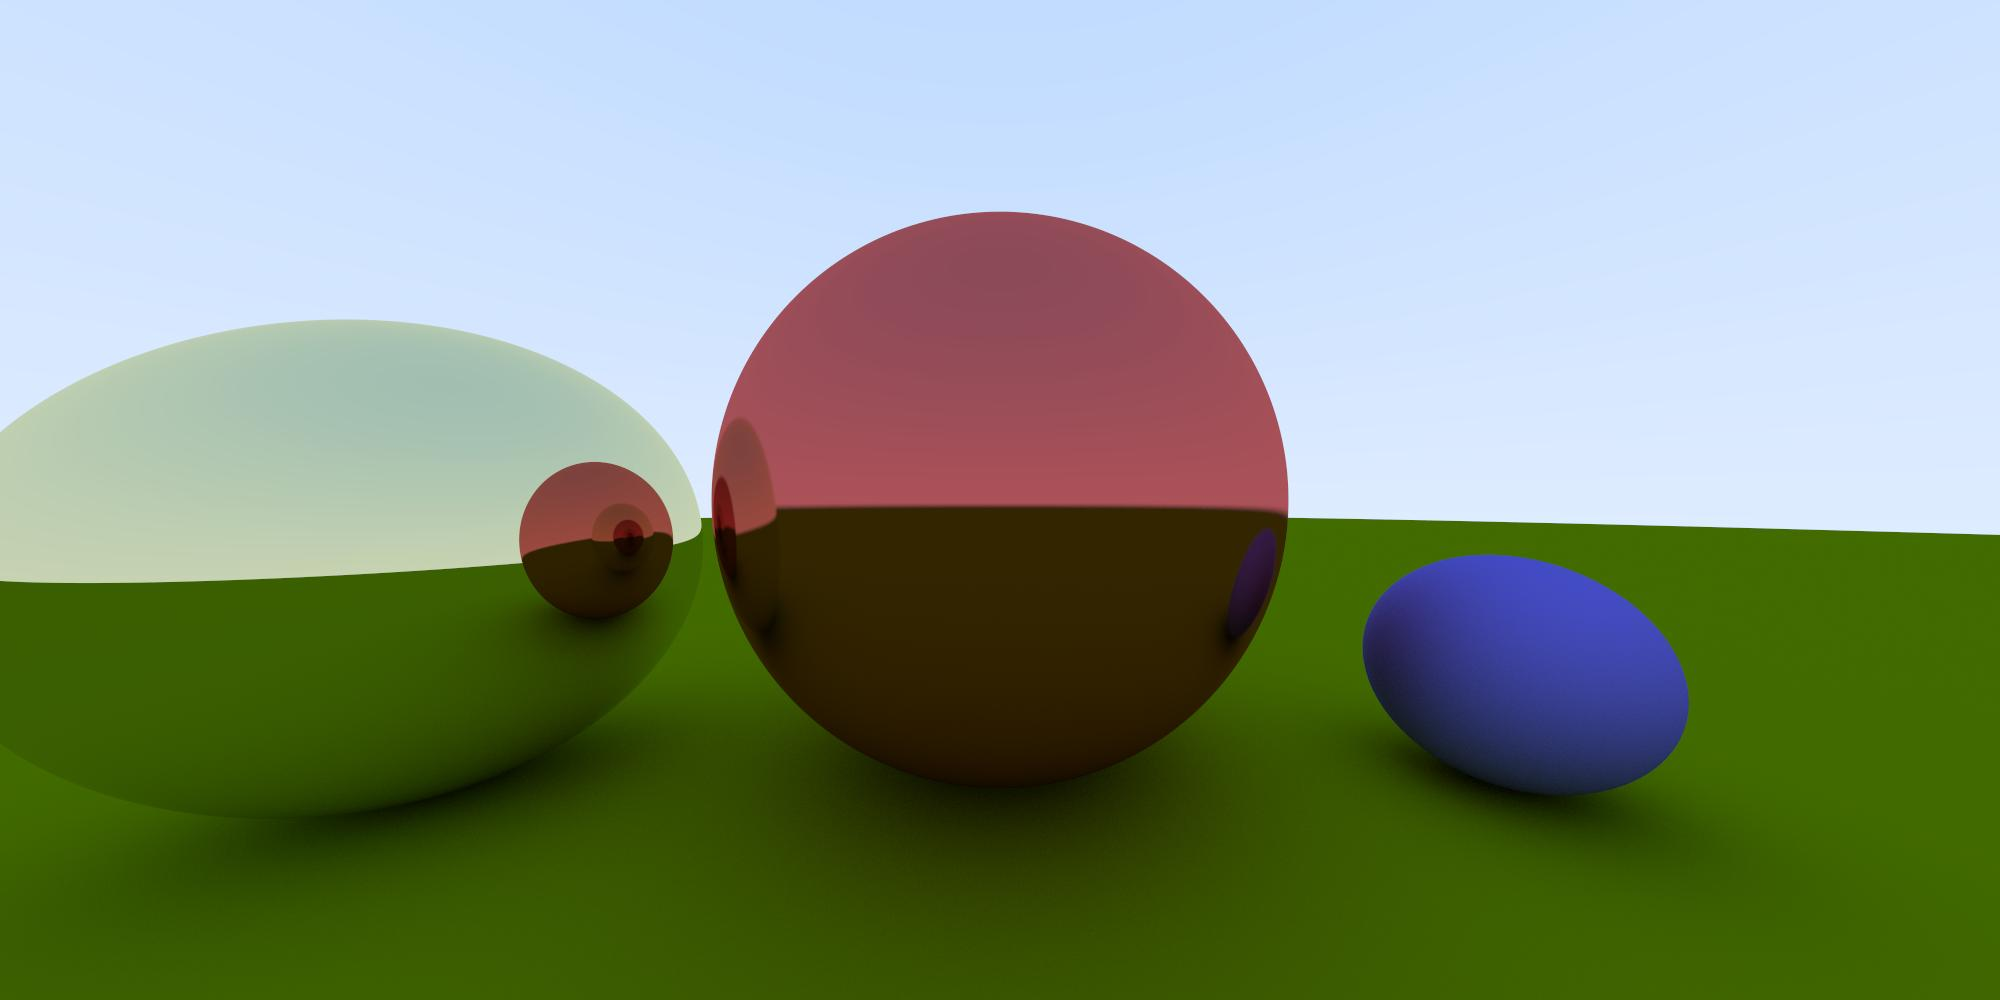
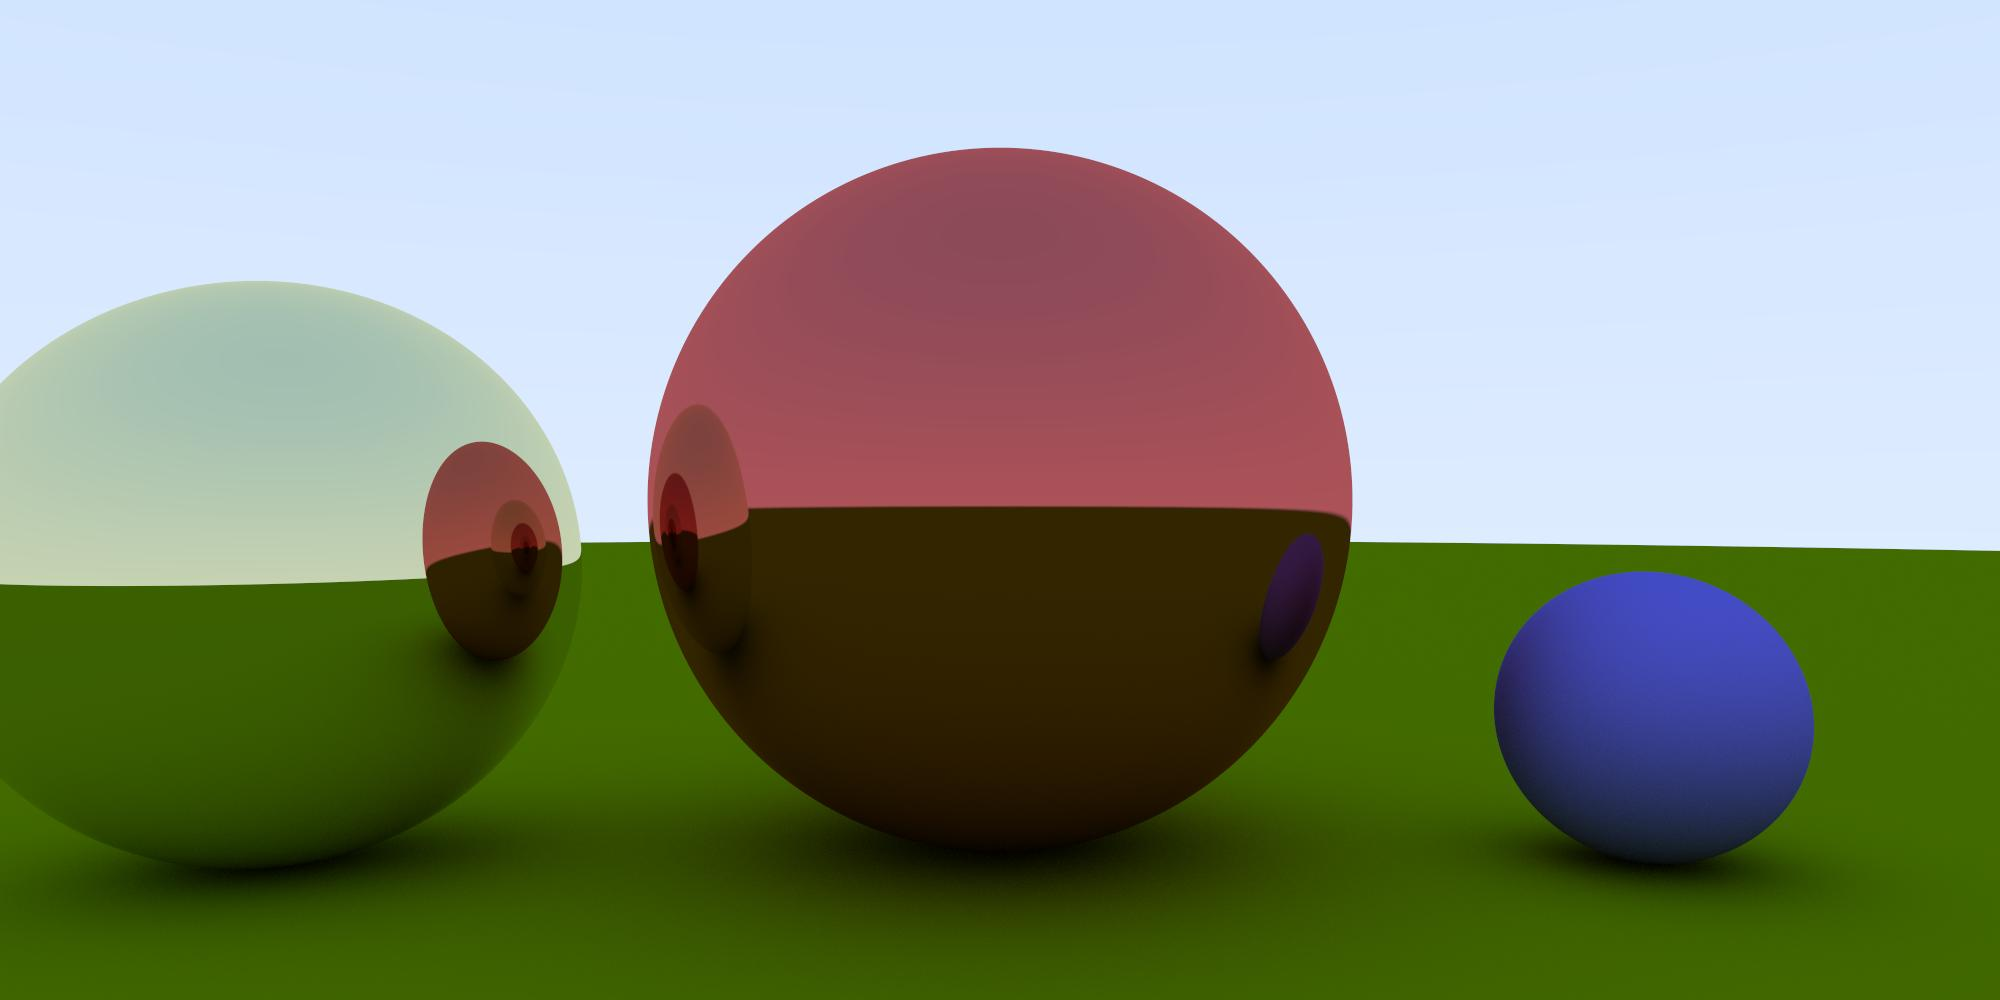
Better render

Changed region(s): [[0.0, 0.124, 1.0, 0.899]]

diff --git a/src/benchmarks.rs b/src/benchmarks.rs
@@ -1,14 +1,14 @@
 use criterion::{criterion_group, criterion_main, Bencher, Criterion};
 use raytrace::vec3::Vec3;
-use raytrace::{gen_image, Camera, ORIGIN, UP};
+use raytrace::{gen_image, Camera, UP};
 
 fn bench_gen_image(criterion: &mut Criterion) {
     let c = Camera {
         up: UP,
-        look_from: ORIGIN,
+        look_from: Vec3(0.0, 0.0, 1.0),
         look_to: Vec3(0.0, 0.0, -1.0),
         aspec_ratio: 2.0,
-        vertical_fov: 45.0,
+        vertical_fov: 15.0,
     };
     criterion.bench_function("gen_image", move |b: &mut Bencher| {
         b.iter(|| gen_image(c, 100.0, 5))

diff --git a/src/main.rs b/src/main.rs
@@ -9,17 +9,17 @@
 )]
 
 use raytrace::vec3::Vec3;
-use raytrace::{gen_image, Camera, ORIGIN, UP};
+use raytrace::{gen_image, Camera, UP};
 use std::io;
 
 fn main() -> io::Result<()> {
     let mut stdout = io::stdout();
     let c = Camera {
         up: UP,
-        look_from: ORIGIN,
+        look_from: Vec3(0.0, 0.0, 1.0),
         look_to: Vec3(0.0, 0.0, -1.0),
         aspec_ratio: 2.0,
-        vertical_fov: 45.0,
+        vertical_fov: 15.0,
     };
-    gen_image(c, 200.0, 200).write_to(&mut stdout)
+    gen_image(c, 200.0, 50).write_to(&mut stdout)
 }
